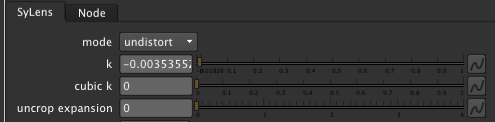
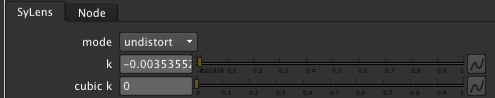
Remove the uncrop knob
It's much much better to just use the standard Nuke overscan bounding box for that

diff --git a/Manual.html b/Manual.html
@@ -31,36 +31,22 @@ dt {
 	 
 	<h2>Undistorting footage </h2>
 
-	<h3>Workflow A</h3>
-  <p>To use the plugin, you will need to use the Lens Workflow script included with Syntheyes. When you have solved the shot, lens distortion will likely be
-    computed. After that, hit "Lens Workflow".</p>
-  <img src="doc/lensw.png" width="600" height="430" alt="Lensw">
-  <p>You will be presented with a choice dialog, and the option you need is the one called "Redistorted"</p>
-  <img src="doc/lenswm2.png" width="750" height="174" alt="Lenswm2">
-  <p>What it does is it undistorts your footage, and simultaneously makes your camera FOV a little wider and
-    your composition size (the film back) a little bigger, to accomodate for image parts that would disappear
-    if you would be undistorting the image by other means.</p>
-  <p>Now open the <b>Shot->Image Preparation</b> menu. Go to the Lens tab and note the values for Distortion and Cubic Distort.
-    Then note down the crop values on the Cropping tab.<p>
-  <p>Load your source footage into Nuke and punch in the values, here's how they are related:</p>
-  <img src="doc/alltogether.png" width="861" height="386" alt="Alltogether">
-  <p>and you should get exactly the same undistortion as the one you would have gotten from Syntheyes using the Save Sequence button.</p>
-  
-	<h3>Workflow B</h3>
-	
-	<p>Alternatively, you can punch in the lens distortion into the solver panel or let Syntheyes compute it for you</p>
+	<p>Punch in the lens distortion into the solver panel or let Syntheyes compute it for you</p>
+	<img src="doc/kappa_value.png" width="404" height="109" alt="Kappa Value" />
+	<p>or let Syntheyes compute it for you...</p>
+	<br />
 	<img src="doc/auto_disto.png" width="199" height="267" alt="Auto Disto" />
 	
 	<p>Then just punch in the computed distortion value into the <tt>k</tt> knob</p>
 	
-	<img src="doc/just_k.png" width="495" height="122" alt="Just K" />
+	<img src="doc/just_k.png" width="495" alt="Just K" />
 	<p>You will probably note that the bounding box of your output will stick outside the format - this is perfectly fine, read below
 	how to deal with that</h2>
 
 	<h2>Redistorting footage</h2>
 	<p>After all is done you might want to redistort either your whole comp or only the piece of CG that came to you from 3D (since it would have been
 		rendered from the undistorted film back size). To redistort, plug your oversize plate into a copy of SyLens with the "mode" switch set to
-		"redistort". <i>See to it that other settings - k, kcube and uncrop - stay the same!</i></p>
+		"redistort". <i>See to it that other settings - k, kcube - stay the same!</i></p>
 		
 		<h2>Cropping and bounding box</h2>
 		<p>The workflow in a nutshell:</p>
@@ -75,12 +61,6 @@ dt {
 			
 			<dt>kcube</dt>
 			<dd>Cubic distortion modifier. If you used this in Syntheyes you can apply it here as well. <b>Note that this will not be reapplied during redistortion</b></dd>
-			
-			<dt>uncrop expansion<dt>
-			<dd>If you are dealing with pin-cushion distortion, there are parts of the image in the corners that will end up outside of your current
-				image format as the corners of the image are pulled outwards. To account for that, Syntheyes will usually add some "crop" values in the
-				Image Preparation screen to make your camera field of view a tad larger, and your output format a tad bigger to account for these corners.
-				To produce exactly the same image size at the end we need to know this crop value that SynthEyes applies.</dd>
 			
 			<dt>filter</dt>
 			<dd>This selects the filtering algorithm used for sampling the source image, pick one that gives a better-looking result</dd>

diff --git a/SyLens.cpp b/SyLens.cpp
@@ -35,7 +35,7 @@ using namespace DD::Image;
 static const char* const CLASS = "SyLens";
 static const char* const HELP =  "This plugin undistorts footage according"
 " to the lens distortion model used by Syntheyes";
-static const char* const VERSION = "0.1.1";
+static const char* const VERSION = "1.0.0";
 static const char* const mode_names[] = { "undistort", "redistort", 0 };
 
 class SyLens : public Iop
@@ -55,10 +55,6 @@ class SyLens : public Iop
 
 	// The size of the filmback we are actually sampling from
 	unsigned int _extWidth, _extHeight;
-	
-	// When we extend the image and get undistorted coordinates, we need to add these
-	// values to the pixel offset
-	int _paddingW, _paddingH;
 	
 	// Image aspect and NOT the pixel aspect Nuke furnishes us
 	double _aspect;
@@ -93,15 +89,12 @@ public:
 		
 		_aspect = 1.33f;
 		_lastScanlineSize = 0;
-		_paddingW = 0;
-		_paddingH = 0;
 	}
 	
 	~SyLens () { }
 	
 	void _computeAspects();
 	void _validate(bool for_real);
-	void _open();
 	void _request(int x, int y, int r, int t, ChannelMask channels, int count);
 	void engine( int y, int x, int r, ChannelMask channels, Row& out );
 	void knobs( Knob_Callback f);
@@ -195,14 +188,10 @@ void SyLens::distortVectorIntoSource(Vector2& absXY) {
 	vecToUV(absXY, uvXY, _extWidth, _extHeight);
 	distortVector(uvXY, kCoeff, kCubeCoeff);
 	vecFromUV(absXY, uvXY, _extWidth, _extHeight);
-	absXY.x -= (double)_paddingW;
-	absXY.y -= (double)_paddingH;
 }
 
 // This is still a little wrongish but less wrong than before
 void SyLens::undistortVectorIntoDest(Vector2& absXY) {
-	absXY.x += (double)_paddingW;
-	absXY.y += (double)_paddingH;
 	Vector2 uvXY(0, 0);
 	vecToUV(absXY, uvXY, _extWidth, _extHeight);
 	Remove(uvXY);
@@ -302,6 +291,7 @@ void SyLens::engine ( int y, int x, int r, ChannelMask channels, Row& out )
 void SyLens::knobs( Knob_Callback f) {
 	// For info on knob flags see Knob.h
 	const int KNOB_ON_SEPARATE_LINE = 0x1000;
+	const int KNOB_HIDDEN = 0x0000000000040000;
 	
 	Knob* _modeSel = Enumeration_knob(f, &kMode, mode_names, "mode", "Mode");
 	_modeSel->label("mode");
@@ -315,12 +305,13 @@ void SyLens::knobs( Knob_Callback f) {
 	_kCubeKnob->label("cubic k");
 	_kCubeKnob->tooltip("Set to the same cubic distortion as applied by Syntheyes");
 	
+	// TODO: this knob is to be removed from SyLens 2.
+	// This is not something we condone, but it is in the older scripts, so we make it a hidden knob
 	Knob* _kUncropKnob = Float_knob( f, &kUnCrop, "uncrop" );
-	_kUncropKnob->label("uncrop expansion");
-	_kUncropKnob->tooltip("Set to the same uncrop value as applied by Syntheyes, it will be the same on all sides");
+	_kUncropKnob->set_flag(KNOB_HIDDEN);
+	// Make sure uncrop is zero
+	_kUncropKnob->set_range(0.0f, 0.0f, true);
 	
-	// Make sure uncrop is not negative
-	_kUncropKnob->set_range(0.0f, 4.0f, true);
 	
 	// Add the filter selection menu that comes from the filter obj itself
 	filter.knobs( f );
@@ -371,28 +362,18 @@ void SyLens::_computeAspects() {
 	// Compute the aspect from the input format
 	Format f = input0().format();
 	
-	// Protect from the uncrop factor being negative (meeeeh!)
-	if (kUnCrop < 0) kUnCrop = 0.0f;
-	
-	// Determine complete scaling factor
-	double scaleFactor = 1.0f + (2.0f * kUnCrop);
-	
 	if(kMode == UNDIST) {
 		_plateWidth = round(f.width());
 		_plateHeight = round(f.height());
-		_extWidth = ceil(float(_plateWidth) * scaleFactor);
-		_extHeight = ceil(float(_plateHeight) * scaleFactor);
+		_extWidth = ceil(float(_plateWidth));
+		_extHeight = ceil(float(_plateHeight));
 	} else {
-		_plateWidth = floor( float(f.width()) / scaleFactor);
-		_plateHeight = floor( float(f.height()) / scaleFactor);
+		_plateWidth = floor( float(f.width()));
+		_plateHeight = floor( float(f.height()));
 		_extWidth = f.width();
 		_extHeight = f.height();
 	}
-	
-	_paddingW = (_extWidth - _plateWidth) / 2;
-	_paddingH = (_extHeight - _plateHeight) / 2;
 	_aspect = float(_plateWidth) / float(_plateHeight) *  f.pixel_aspect();
-	
 	if(kDbg) printf("SyLens: true plate window with uncrop will be %dx%d\n", _extWidth, _extHeight);
 }
 
